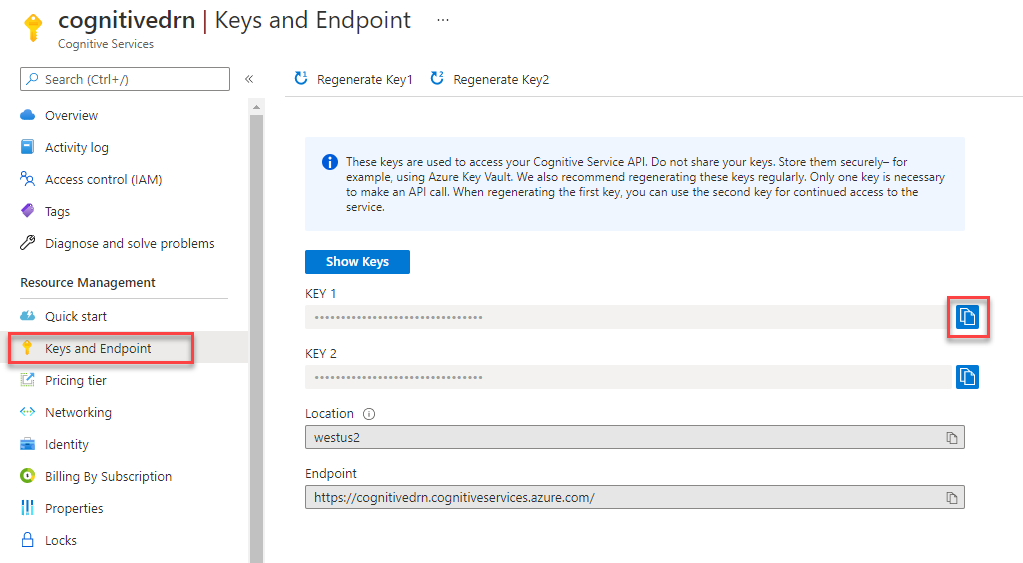
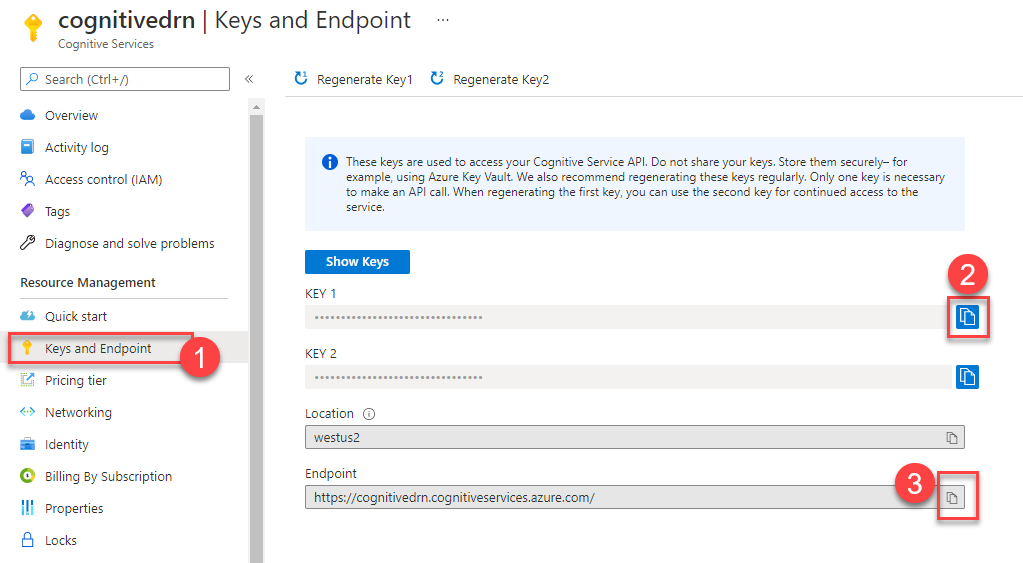
Adding Setup Artifacts to enable Sentiment Analysis in Exercise 2 Data Enrichment Pipeline

Changed region(s): [[0.8485, 0.8153, 0.9697, 0.9361], [0.9091, 0.4529, 0.9697, 0.5435], [0.1515, 0.6039, 0.2424, 0.6945]]

diff --git a/00-setup-workspace.md b/00-setup-workspace.md
@@ -38,7 +38,9 @@
 
 1. Create a folder named `bronze` in the `dev` file system of `PrimaryStorage`.
 
-2. Upload the following data files to the `bronze` folder created above:
+2. Create a folder named `sentiment` in the `bronze` folder in the `dev` file system of `PrimaryStorage`.
+
+3. Upload the following data files to the `bronze` folder created above:
 
     | File name                    | Size      | Download from                                                                         |
     |------------------------------|-----------|---------------------------------------------------------------------------------------|
@@ -61,8 +63,53 @@
     | `wwi-factsale.csv`           | 1.8 GB    | <https://solliancepublicdata.blob.core.windows.net/wwi-01/wwi-factsale.csv>           |
     | `wwi-factstockholding.csv`   | 8.9 KB    | <https://solliancepublicdata.blob.core.windows.net/wwi-01/wwi-factstockholding.csv>   |
     | `wwi-facttransaction.csv`    | 7.2 MB    | <https://solliancepublicdata.blob.core.windows.net/wwi-01/wwi-facttransaction.csv>    |
+    | `wwi-comments.csv`           | 7.7 KB    | <https://solliancepublicdata.blob.core.windows.net/wwi-01/wwi-comments.csv>           |
 
-## Task 3 - Import datasets, data flows, and pipelines
+## Task 3 - Setting Up Azure Cognitive Services
+
+1. Navigate to [Create Cognitive Services](https://portal.azure.com/#create/Microsoft.CognitiveServicesAllInOne) page and fill in the appropriate values exemplified below to create an All-In-One Cognitive Services account.
+
+    ![Cognitive Service creation page is open. Name and Pricing fields are highlighted. Pricing is set to Standard S0. Review+Create button is highlighted.](media/create-cognitive-service.png "Create Cognitive Services")
+
+2. Go to **Cognitive Service > Keys and Endpoint (1)**. Copy **Key 1 (2)** and **Endpoint (3)** to a text editor of your choice to be used in the following steps.
+
+    ![Cognitive Services is open. The keys and Endpoints panel is shown. Key 1 Copy button is highlighted.](media/get-cognitive-services-key.png "Cognitive Service Key")
+
+3. Navigate to [Create Key Vault](https://portal.azure.com/#create/Microsoft.KeyVault) page and fill in the appropriate values exemplified below to create a Key Vault account.
+
+    ![Key Vault creation page is open. The pricing field is highlighted. Pricing is set to Standard. Review+Create button is highlighted.](media/create-key-vault.png "Create Key Vault")
+
+4. Go to **Key Vault > Access policies (1)**, and grant **(2)** the Azure Synapse workspace Managed Service Identity permissions **(3)** to read secrets from Azure Key Vault.
+
+    ![Key Vault creation page is open. The pricing field is highlighted. Pricing is set to Standard. Review+Create button is highlighted.](media/key-vault-access-policies.png "Create Key Vault")
+
+5. Go to **Key Vault > Secret** to create a new secret. Select **+Generate/Import** to continue.
+
+    ![Key Vault is open. Secrets collection is shown. +Generate/Import button is highlighted.](media/key-vault-add-secret.png "Key Vault Secrets")
+
+6. Set the secret's name to **CognitiveKey**, and then paste the key from the previous step into the Value field. Finally, select Create.
+
+    ![Create a secret dialog is open. The name is set to CognitiveKey. Value is set to the Cognitive Service Key. Create button is highlighted.](media/key-vault-create-secret.png "Key Vault Secrets")
+
+7. In the Synapse Workspace, create an **Azure Key Vault** linked service by pointing to the key vault you just created. It is recommended to name the linked service `KeyVault`.  Verify the connection by selecting the **Test connection** button. If the connection is green, select **Create** and then select **Publish all** to save your change.
+
+8. In the Synapse Workspace, create an **Azure Cognitive Service** linked service by pointing to the cognitive service and key vault you just created. Make sure **Secret name** is set to **CognitiveKey**. It is recommended to name the linked service `CognitiveService`. Select **Create (2)** and then select **Publish all** to save your change.
+
+    ![New Linked Service window is open. Secret Name is highlighted and set to CognitiveKey. Create button is highlighted.](media/linked-service-cognitive-service.png "Cognitive Service Linked Service")
+
+9. In the Synapse Workspace, create a **REST** linked service. Set **Base URL** to the previously copied Cognitive Service Endpoint value. Set Authentication Type to **Anonymous (3)**. It is recommended to name the linked service `CognitiveRESTEndpoint`. Select **Create (2)** and then select **Publish all** to save your change.
+
+    ![New Linked Service window is open. Secret Name is highlighted and set to CognitiveKey. Create button is highlighted.](media/cognitive-rest-endpoint-linked-service.png "Cognitive Service Linked Service")
+
+10. Create a new, empty dataset with the `cognitive_rest_dataset` name.
+
+11. Switch to code view and replace the code with the content of the [cognitive_rest_dataset.json](artifacts/00/datasets/cognitive/cognitive_rest_dataset.json) JSON file.
+
+12. If the name used for the linked service to the REST Linked Service is not `CognitiveRESTEndpoint`, replace the `properties.linkedServiceName.referenceName` value in JSON with the actual name of the linked service.
+
+13. Save and publish the dataset.
+
+## Task 4 - Import datasets, data flows, and pipelines
 
 ### Import datasets pointing to `PrimaryStorage`
 
@@ -82,6 +129,7 @@ The following datasets pointing to `PrimaryStorage` must be imported:
 |---------------------------------|-----------------------------------------------------------------------------------------------------|
 | `external_postalcode_adls`      | [external_postalcode_adls.json](artifacts/00/datasets/adls/external_postalcode_adls.json)           |
 | `staging_enrichedcustomer_adls` | [staging_enrichedcustomer_adls.json](artifacts/00/datasets/adls/staging_enrichedcustomer_adls.json) |
+| `wwi_comments_adls`             | [wwi_comments_adls.json](artifacts/00/datasets/adls/wwi_comments_adls.json) |
 | `wwi_dimcity_adls`              | [wwi_dimcity_adls.json](artifacts/00/datasets/adls/wwi_dimcity_adls.json)                           |
 | `wwi_dimcustomer_adls`          | [wwi_dimcustomer_adls.json](artifacts/00/datasets/adls/wwi_dimcustomer_adls.json)                   |
 | `wwi_dimdate_adls`              | [wwi_dimdate_adls.json](artifacts/00/datasets/adls/wwi_dimdate_adls.json)                           |
@@ -100,6 +148,7 @@ The following datasets pointing to `PrimaryStorage` must be imported:
 | `wwi_factsale_big_4_adls`       | [wwi_factsale_big_4_adls.json](artifacts/00/datasets/adls/wwi_factsale_big_4_adls.json)             |
 | `wwi_factstockholding_adls`     | [wwi_factstockholding_adls.json](artifacts/00/datasets/adls/wwi_factstockholding_adls.json)         |
 | `wwi_facttransaction_adls`      | [wwi_facttransaction_adls.json](artifacts/00/datasets/adls/wwi_facttransaction_adls.json)           |
+| `wwi_sentiments_adls`           | [wwi_sentiments_adls.json](artifacts/00/datasets/adls/wwi_sentiments_adls.json)                     |
 
 ### Import datasets pointing to `SQLPool1`
 
@@ -172,7 +221,7 @@ The following pipelines must be imported:
 | `Import WWI Perf Data - Fact Sale Fast` | [Import WWI Perf Data - Fact Sale Fast.json](./artifacts/00/pipelines/Import%20WWI%20Perf%20Data%20-%20Fact%20Sale%20Fast.json) |
 | `Import WWI Perf Data - Fact Sale Slow` | [Import WWI Perf Data - Fact Sale Slow.json](./artifacts/00/pipelines/Import%20WWI%20Perf%20Data%20-%20Fact%20Sale%20Slow.json) |
 
-## Task 4 - Populate `PrimaryStorage` with data
+## Task 5 - Populate `PrimaryStorage` with data
 
 1. Import the [Setup - Export Sales to Data Lake](./artifacts/00/notebooks/Setup%20-%20Export%20Sales%20to%20Data%20Lake.ipynb) notebook.
 
@@ -180,7 +229,7 @@ The following pipelines must be imported:
 
 3. Run the notebook to populate `PrimaryStorage` with data.
 
-## Task 5 - Configure the SQL on-demand pool
+## Task 6 - Configure the SQL on-demand pool
 
 1. Create a SQL on-demand database running the following script on the `master` database of the SQL on-demand pool:
 
@@ -197,7 +246,7 @@ The following pipelines must be imported:
 
     In the script above, replace `<primary_storage>` with the name of `PrimaryStorage`.
 
-## Task 6 - Configure `SQLPool01`
+## Task 7 - Configure `SQLPool01`
 
 1. Connect with either the SQL Active Directory admin or the `asa.sql.admin` account to `SQLPool01` using the tool of your choice.
 
@@ -251,7 +300,7 @@ The following pipelines must be imported:
 
 8. Run the `Import WWI Perf Data - Fact Sale Fast` and `Import WWI Perf Data - Fact Sale Slow` pipelines to import the large-sized sale facts into `SQLPool01`.
 
-## Task 7 - Configure Power BI
+## Task 8 - Configure Power BI
 
 1. Ensure the `MasterUser` has a Power BI Pro subscription assigned.
 
@@ -261,7 +310,7 @@ The following pipelines must be imported:
 
 4. In the Power BI portal, edit the security settings of the `wwifactsales` dataset and configure it to authenticate to `SQLPool01` using the credentials of the `asa.sql.admin` account. This allows the `Direct Query` option to work correctly for all participants in the lab.
 
-## Task 8 - Import all SQL scripts and Spark notebooks
+## Task 9 - Import all SQL scripts and Spark notebooks
 
 Import the following SQL scripts into `Workspace`:
 
@@ -282,7 +331,7 @@ Import the following Spark notebooks into `Workspace`:
 | `Exercise 2 - Ingest Sales Data`          | [Exercise 2 - Ingest Sales Data.ipynb](./artifacts/02/Exercise%202%20-%20Ingest%20Sales%20Data.ipynb)                     | In cell 1 - `<primary_storage>` with the actual name of `PrimaryStorage`                                                                                                                                                                                                                                |
 | `Exercise 2 - Bonus Notebook with CSharp` | [Exercise 2 - Bonus Notebook with CSharp.ipynb](./artifacts/02/Exercise%202%20-%20Bonus%20Notebook%20with%20CSharp.ipynb) | In cell 1 - `<primary_storage>` with the actual name of `PrimaryStorage`; In cell 3 - `<sql_staging_password>` with the password of `asa.sql.staging` created above in Task 4, step 3; In cell 3 - `<workspace>` with the name of the `Workspace`; In cell 3 - `<sql_pool>` with the name of `SQLPool1` |
 
-## Task 9 - Prepare a machine learning model
+## Task 10 - Prepare a machine learning model
 
 Prepare the `models` container in `BlobStorage` by creating two folders: `onnx` and `hex`.
 
@@ -307,7 +356,7 @@ To prepare the machine learning model for Exercise 5, you have two options:
 
 3. Perform steps 1, 2, and 3 described in the previous section.
 
-## Task 10 - Configure additional users to access the workspace
+## Task 11 - Configure additional users to access the workspace
 
 For each additional user that needs to have access to `Workspace` and run exercises 1 through 5, the following steps must be performed:
 
@@ -328,7 +377,7 @@ For each additional user that needs to have access to `Workspace` and run exerci
 
 5. Assign the `Contributor` role on the Power BI workspace of the `MasterUser` created in Task 5, step 2.
 
-## Task 11 - Create and configure an Azure Databricks workspace
+## Task 12 - Create and configure an Azure Databricks workspace
 
 1. In the resource group, create a new Azure Databricks workspace.
 
@@ -346,34 +395,12 @@ For each additional user that needs to have access to `Workspace` and run exerci
     |-------------------------------|--------------------------------------------------------------------------------------------------------|--------------|
     | `Exercise 5 - Model Training` | [Exercise 5 - Model Training.dbc](./artefacts/../artifacts/05/Exercise%205%20-%20Model%20Training.dbc) |
 
-## Task 12 - Setting Up Azure Cognitive Services
+## Task 13 - Setting Cognitive Services Access Key for Pipelines
 
-1. Navigate to [Create Cognitive Services](https://portal.azure.com/#create/Microsoft.CognitiveServicesAllInOne) page and fill in the appropriate values examplified below to create an All-In-One Cognitive Services account.
+1. In Synapse Workspace, open **Exercise 2 - Enrich Data (2)** pipeline. Select the **Edit (3)** button for Activities in the **ForEachComment** ForEach activity.
 
-    ![Cognitive Service creation page is open. Name and Pricing fields are highlighted. Pricing is set to Standard S0. Review+Create button is highlighted.](media/create-cognitive-service.png "Create Cognitive Services")
+    ![Exercise 2 - Enrich Data pipeline is open. The Edit button for the ForEachComment ForEach activity is highlighted.](media/data-enrichment-pipeline-sentiment-key.png "ForEach Activity Edit")
 
-2. Go to **Cognitive Service > Keys and Endpoint (1)** and copy **Key 1 (2)** to a text editor of your choice to be used in the following steps.
+2. Select **Sentiment Analysis (1)** copy data activity. Switch to the **Source (2)** tab. Paste the Cognitive Service access key previously copied into a text editor.
 
-    ![Cognitive Services is open. Keys and Endpoints panel is shown. Key 1 Copy button is highlighted.](media/get-cognitive-services-key.png "Cognitive Service Key")
-
-3. Navigate to [Create Key Vault](https://portal.azure.com/#create/Microsoft.KeyVault) page and fill in the appropriate values examplified below to create a Key Vault account.
-
-    ![Key Vault creation page is open. Pricing field is highlighted. Pricing is set to Standard. Review+Create button is highlighted.](media/create-key-vault.png "Create Key Vault")
-
-4. Go to **Key Vault > Access policies (1)**, and grant **(2)** the Azure Synapse workspace Managed Service Identity permissions **(3)** to read secrets from Azure Key Vault.
-
-    ![Key Vault creation page is open. Pricing field is highlighted. Pricing is set to Standard. Review+Create button is highlighted.](media/key-vault-access-policies.png "Create Key Vault")
-
-5. Go to **Key Vault > Secret** to create a new secret. Select **+Generate/Import** to continue.
-
-    ![Key Vault is open. Secrets collection is shown. +Generate/Import button is highlighted.](media/key-vault-add-secret.png "Key Vault Secrets")
-
-6. Set the name of the secret to **CognitiveKey**, and then paste the key from the previous step into the Value field. Finally, select Create.
-
-    ![Create a secret dialog is open. Name is set to CognitiveKey. Value is set to the Cognitive Service Key. Create button is highlighted.](media/key-vault-create-secret.png "Key Vault Secrets")
-
-7. In the Synapse Workspace, create an **Azure Key Vault** linked service by pointing to the key vault that you just created. It is recommended to name the linked service `KeyVault`.  Verify the connection by selecting the **Test connection** button. If the connection is green, select **Create** and then select **Publish all** to save your change.
-
-8. In the Synapse Workspace, create an **Azure Cognitive Service** linked service by pointing to the cognitive service and key vault that you just created. Make sure **Secret name** is set to **CognitiveKey**. It is recommended to name the linked service `CognitiveService`. Select **Create (2)** and then select **Publish all** to save your change.
-
-    ![New Linked Service window is open. Secret Name is highlighted and set to CognitiveKey. Create button is highlighted.](media/linked-service-cognitive-service.png "Cognitive Service Linked Service")
+    ![Sentiment Analysis activity is selected. Source Tab is open. Second headers value is highlighted.](media/data-enrichment-pipeline-sentiment-key-update.png "Cognitive Service Key Update")
